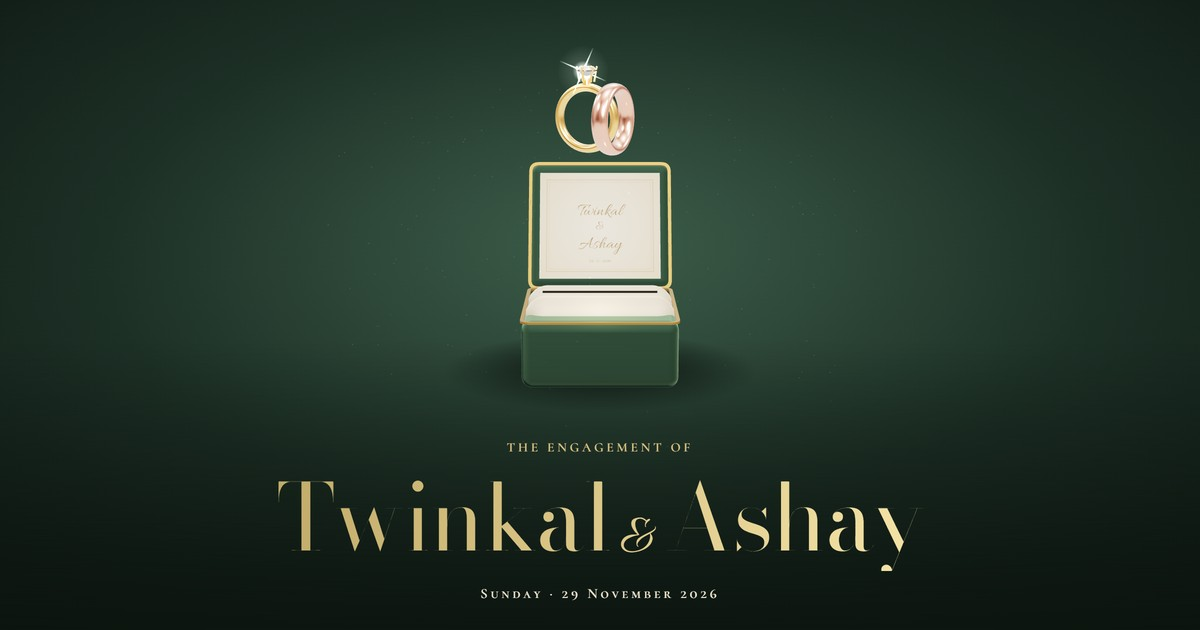
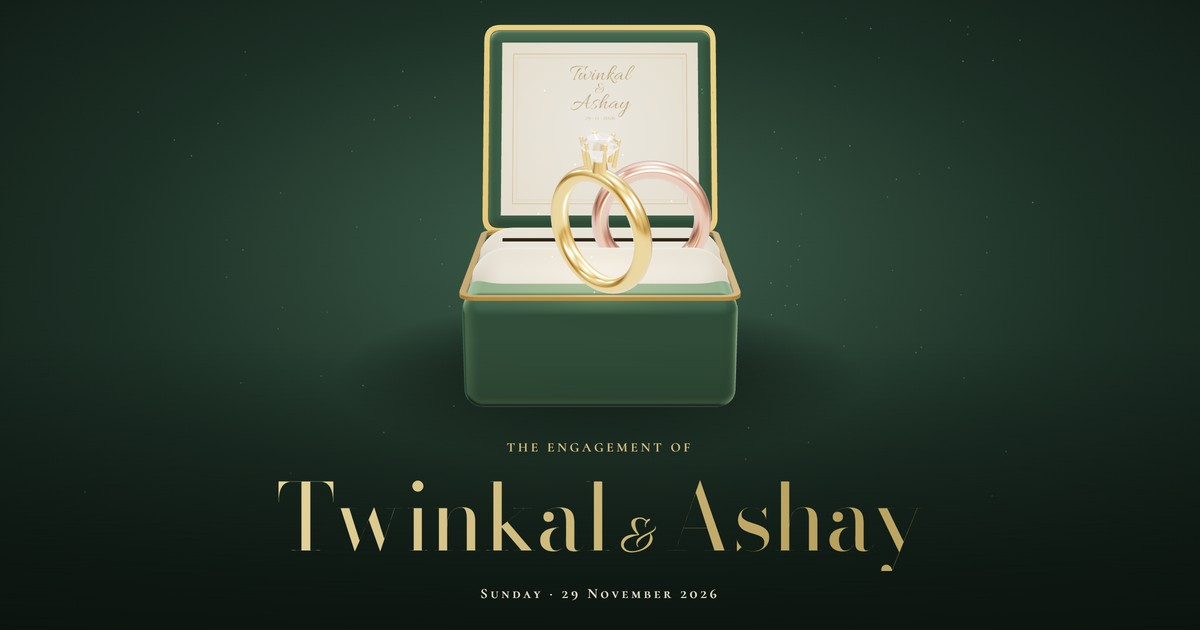
Smoother opening: zoom in, lid opens, ring lifts out and turns; names on the lid

diff --git a/index.html b/index.html
@@ -75,7 +75,7 @@
   .pre, .post { transition: opacity .9s ease, transform .9s ease; }
   .post { position: absolute; left: 0; right: 0; bottom: 0; opacity: 0; transform: translateY(16px); pointer-events: none; }
   .opened .pre { opacity: 0; transform: translateY(-10px); pointer-events: none; }
-  .opened .post { opacity: 1; transform: none; pointer-events: auto; }
+  .opened .post { opacity: 1; transform: none; pointer-events: auto; transition-delay: 2.9s; transition-duration: 1.2s; }
   .kicker { font-family: var(--caps); font-weight: 600; letter-spacing: 3px; font-size: 13px; color: var(--gold-bright); margin: 0 0 14px; text-transform: uppercase; }
   :lang(gu) .kicker { letter-spacing: .5px; font-size: 15px; }
   .guest-name { font-family: "Allura", "Noto Serif Gujarati", cursive; font-size: clamp(40px, 11vw, 64px); line-height: 1.1; margin: 0 0 6px; color: var(--gold-bright); text-shadow: 0 2px 18px rgba(0, 0, 0, .45); overflow-wrap: anywhere; }
@@ -248,7 +248,7 @@
     .invite-card { padding: 96px 60px 84px; }
   }
   .still .topbar, .still .hint, .still .scroll-cue, .still .quickbar { display: none; }
-  .still .pre, .still .post { transition: none; }
+  .still .pre, .still .post { transition: none !important; }
   @media (prefers-reduced-motion: reduce) {
     *, *::before, *::after { animation: none !important; transition: none !important; }
     .rv { opacity: 1; transform: none; }
@@ -689,7 +689,7 @@ let opened = false;
 function openBox() {
   if (opened) return; opened = true;
   document.getElementById("scene").classList.add("opened");
-  setTimeout(() => { document.body.classList.remove("locked"); scrollTo(0, 0); }, 1800);
+  setTimeout(() => { document.body.classList.remove("locked"); scrollTo(0, 0); }, 3600);
   setMusic(true);
   document.dispatchEvent(new Event("openbox"));
 }
@@ -718,7 +718,7 @@ setTimeout(showFallback, 7000);
   let rsvpInView = false;
   const update = () => bar.classList.toggle("show", opened && !rsvpInView);
   new IntersectionObserver(([e]) => { rsvpInView = e.isIntersecting; update(); }, { threshold: .25 }).observe(rsvpEl);
-  document.addEventListener("openbox", () => setTimeout(update, 2600));
+  document.addEventListener("openbox", () => setTimeout(update, 4400));
   const go = el => el.scrollIntoView({ behavior: "smooth", block: "start" });
   document.getElementById("qbRsvp").addEventListener("click", () => {
     go(rsvpEl);
@@ -893,25 +893,31 @@ const lidSeam = goldFrame(); lidSeam.position.set(0, .005, D / 2); hinge.add(lid
 // the lid's frame faces the glow once open, so it gets a softer, satin-finish gold
 lidSeam.material = new THREE.MeshPhysicalMaterial({ color: 0xa8843f, metalness: 1, roughness: .58, envMapIntensity: .55 });
 
-// gold-foil monogram pressed into the lid
-const monoCanvas = document.createElement("canvas"); monoCanvas.width = monoCanvas.height = 512;
-const monoTex = new THREE.CanvasTexture(monoCanvas); monoTex.anisotropy = 4;
-const mono = new THREE.Mesh(new THREE.PlaneGeometry(1.1, 1.1), new THREE.MeshPhysicalMaterial({
+// both names stamped in gold foil on top of the lid
+const monoCanvas = document.createElement("canvas"); monoCanvas.width = 1024; monoCanvas.height = 880;
+const monoTex = new THREE.CanvasTexture(monoCanvas); monoTex.anisotropy = 8;
+const mono = new THREE.Mesh(new THREE.PlaneGeometry(1.7, 1.46), new THREE.MeshPhysicalMaterial({
   map: monoTex, color: 0xf6d488, metalness: .85, roughness: .22, transparent: true, alphaTest: .05, envMapIntensity: 1.8,
-  emissive: 0x6b4f17, emissiveMap: monoTex, emissiveIntensity: .55,
+  emissive: 0x6b4f17, emissiveMap: monoTex, emissiveIntensity: .6,
 }));
 mono.rotation.x = -Math.PI / 2;
 mono.position.set(0, LID_H + .025, D / 2);
 hinge.add(mono);
-function drawMono() {
-  const g = monoCanvas.getContext("2d"); g.clearRect(0, 0, 512, 512);
+function drawMono(lang) {
+  const g = monoCanvas.getContext("2d"), w = 1024, h = 880, gu = lang === "gu";
+  g.clearRect(0, 0, w, h);
   g.strokeStyle = g.fillStyle = "#fff";
-  g.lineWidth = 5; g.beginPath(); g.arc(256, 256, 236, 0, Math.PI * 2); g.stroke();
-  g.lineWidth = 2; g.beginPath(); g.arc(256, 256, 218, 0, Math.PI * 2); g.stroke();
-  g.textAlign = "center"; g.textBaseline = "middle";
-  g.font = '400 210px "Bodoni Moda"'; g.fillText("T", 190, 250);
-  g.font = '170px "Allura"'; g.fillText("&", 262, 300);
-  g.font = '400 210px "Bodoni Moda"'; g.fillText("A", 330, 262);
+  g.lineWidth = 5; g.strokeRect(40, 40, w - 80, h - 80);
+  g.lineWidth = 2; g.strokeRect(62, 62, w - 124, h - 124);
+  g.textAlign = "center"; g.textBaseline = "alphabetic";
+  g.font = gu ? '600 150px "Noto Serif Gujarati"' : '230px "Allura"';
+  g.fillText(gu ? "ટ્વિંકલ" : "Twinkal", w / 2, gu ? 330 : 340);
+  g.font = gu ? '400 90px "Noto Serif Gujarati"' : '140px "Allura"';
+  g.fillText("&", w / 2, gu ? 470 : 480);
+  g.font = gu ? '600 150px "Noto Serif Gujarati"' : '230px "Allura"';
+  g.fillText(gu ? "આશય" : "Ashay", w / 2, gu ? 650 : 660);
+  g.font = gu ? '400 46px "Noto Serif Gujarati"' : '600 46px "Cormorant SC"';
+  g.fillText(gu ? "૨૯ · ૧૧ · ૨૦૨૬" : "29 · 11 · 2026", w / 2, 770);
   monoTex.needsUpdate = true;
 }
 
@@ -927,15 +933,16 @@ function drawLiner(lang) {
   g.lineWidth = 1.5; g.strokeRect(80, 80, w - 160, h - 160);
   g.textAlign = "center"; g.fillStyle = "#7a5c22";
   g.shadowColor = "rgba(255,240,200,.6)"; g.shadowOffsetY = 2; g.shadowBlur = 2;
+  // names sit in the upper half: the lifted ring floats in front of the lower half
   const gu = lang === "gu";
-  g.font = gu ? '600 120px "Noto Serif Gujarati"' : '150px "Allura"';
-  g.fillText(gu ? "ટ્વિંકલ" : "Twinkal", w / 2, gu ? 360 : 360);
-  g.font = gu ? '400 70px "Noto Serif Gujarati"' : '110px "Allura"';
-  g.fillText("&", w / 2, gu ? 480 : 480);
-  g.font = gu ? '600 120px "Noto Serif Gujarati"' : '150px "Allura"';
-  g.fillText(gu ? "આશય" : "Ashay", w / 2, gu ? 640 : 640);
-  g.font = gu ? '400 40px "Noto Serif Gujarati"' : '600 38px "Cormorant SC"';
-  g.fillText(gu ? "૨૯ · ૧૧ · ૨૦૨૬" : "29 · 11 · 2026", w / 2, 760);
+  g.font = gu ? '600 96px "Noto Serif Gujarati"' : '124px "Allura"';
+  g.fillText(gu ? "ટ્વિંકલ" : "Twinkal", w / 2, 195);
+  g.font = gu ? '400 56px "Noto Serif Gujarati"' : '84px "Allura"';
+  g.fillText("&", w / 2, 262);
+  g.font = gu ? '600 96px "Noto Serif Gujarati"' : '124px "Allura"';
+  g.fillText(gu ? "આશય" : "Ashay", w / 2, 345);
+  g.font = gu ? '400 34px "Noto Serif Gujarati"' : '600 32px "Cormorant SC"';
+  g.fillText(gu ? "૨૯ · ૧૧ · ૨૦૨૬" : "29 · 11 · 2026", w / 2, 405);
   linerTex.needsUpdate = true;
 }
 const liner = new THREE.Mesh(new THREE.PlaneGeometry(W - .3, D - .3), new THREE.MeshPhysicalMaterial({ map: linerTex, roughness: .6, sheen: .5, sheenColor: new THREE.Color(0xfff1d8), envMapIntensity: .35 }));
@@ -946,8 +953,8 @@ const fontsReady = Promise.all([
   document.fonts.load('150px "Allura"'), document.fonts.load('600 38px "Cormorant SC"'), document.fonts.load('600 120px "Noto Serif Gujarati"'),
   document.fonts.load('400 210px "Bodoni Moda"'),
 ]).catch(() => {});
-fontsReady.then(() => { drawLiner(document.documentElement.lang); drawMono(); });
-document.addEventListener("langchange", e => fontsReady.then(() => drawLiner(e.detail)));
+fontsReady.then(() => { drawLiner(document.documentElement.lang); drawMono(document.documentElement.lang); });
+document.addEventListener("langchange", e => fontsReady.then(() => { drawLiner(e.detail); drawMono(e.detail); }));
 
 /* ---------- the rings ---------- */
 const R = .42;
@@ -1027,18 +1034,15 @@ shadow.rotation.x = -Math.PI / 2; shadow.position.y = .002; box.add(shadow);
 /* ---------- poses ---------- */
 const CUSHION_TOP = BASE_H + .2;
 const SLOT_Y = CUSHION_TOP + R - .26;
-const SHOW_Y = BASE_H + D + .72;   // floats above the open lid, so the names on the lining stay visible
 function lerp(a, b, k) { return a + (b - a) * k; }
-const ease = k => k < .5 ? 4 * k * k * k : 1 - Math.pow(-2 * k + 2, 3) / 2;
-const easeOutBack = k => { const c1 = 1.4, c3 = c1 + 1; return 1 + c3 * Math.pow(k - 1, 3) + c1 * Math.pow(k - 1, 2); };
+const clamp01 = k => Math.min(1, Math.max(0, k));
+const smooth = k => { k = clamp01(k); return k * k * k * (k * (k * 6 - 15) + 10); };   // smootherstep: no jerk at either end
+const phase = (t, start, len) => smooth((t - start) / len);
 
-function setRings(k) {          // 0 = tucked in the cushion, 1 = floating and interlocked
-  pair.position.y = lerp(SLOT_Y, SHOW_Y, k);
-  ringHer.position.x = lerp(-.42, -.2, k);
-  ringHis.position.x = lerp(.42, .2, k);
-  ringHis.rotation.y = lerp(0, Math.PI / 2, k);
-}
-setRings(0);
+// her ring lifts out of the cushion towards the guest; his band stays tucked in
+const HER_SLOT = new THREE.Vector3(-.42, SLOT_Y, 0), HER_SHOW = new THREE.Vector3(0, SLOT_Y + .22, 1.15);
+ringHer.position.copy(HER_SLOT);
+ringHis.position.set(.42, SLOT_Y, 0);
 
 /* ---------- camera framing ----------
    The subject is framed by height and then shifted up with a view offset,
@@ -1052,12 +1056,12 @@ function resize() {
   const w = sceneEl.clientWidth, h = sceneEl.clientHeight;
   renderer.setSize(w, h, false);
   camera.aspect = w / h;
-  // the open scene spans ~4.4 units (box + rings above the lid); fit it into the top ~58% of the screen
-  // on tall phones the width is the limit: the swaying box needs ~3.6 units across, the open scene ~3.4
+  // closed: the swaying box needs ~3.6 units across. Open: box + raised lid + lifted ring span ~2.8 units
+  // high and ~2.6 across, so the camera ends up a little closer: a gentle zoom-in as it opens.
   const halfTan = Math.tan(THREE.MathUtils.degToRad(camera.fov / 2));
   const byWidth = need => need / (2 * halfTan * camera.aspect);
-  camClosed = orbit(new THREE.Vector3(0, .75, 0), 26, Math.max(10.2, byWidth(3.6)));
-  camOpen = orbit(new THREE.Vector3(0, 2.3, 0), 10, Math.max(16.2, byWidth(3.4)));
+  camClosed = orbit(new THREE.Vector3(0, .75, 0), 26, Math.max(10.6, byWidth(3.6)));
+  camOpen = orbit(new THREE.Vector3(0, 1.38, 0), 14, Math.max(9.6, byWidth(3.05)));
   camera.setViewOffset(w, h, 0, h * .17, w, h);
   camera.updateProjectionMatrix();
 }
@@ -1071,7 +1075,7 @@ if (root.classList.contains("still")) openT = 10;
 canvas.addEventListener("pointerdown", e => { dragging = true; lastX = e.clientX; });
 addEventListener("pointerup", () => { dragging = false; });
 canvas.addEventListener("pointermove", e => {
-  if (!dragging || openT < 2.6) return;
+  if (!dragging || openT < 3.4) return;
   const dx = e.clientX - lastX; lastX = e.clientX;
   dragVel = dx * .008; spin += dragVel;
 });
@@ -1099,23 +1103,30 @@ function loop() {
   frames++;
 
   if (openT >= 0) openT += dt;
-  const lidK = openT < 0 ? 0 : Math.min(1, openT / 1.7);
-  const ringK = openT < 0 ? 0 : ease(Math.min(1, Math.max(0, (openT - 1.1) / 1.9)));
-  const camK = openT < 0 ? 0 : ease(Math.min(1, openT / 3));
+  const T = openT;
+  // one continuous timeline, every stage eased with smootherstep so nothing starts or stops abruptly
+  const turnK = T < 0 ? 0 : phase(T, 0, 1.4);          // box turns to face the guest
+  const camK = T < 0 ? 0 : phase(T, 0, 4.4);           // slow zoom-in across the whole opening
+  const lidK = T < 0 ? 0 : phase(T, .5, 2.1);          // lid opens
+  const liftK = T < 0 ? 0 : phase(T, 2.2, 2.0);        // ring rises out of the cushion
+  const settle = T < 0 ? 0 : phase(T, 3.6, 1.6);       // gentle sway fades in once it has risen
 
-  // closed: the box sways gently and the lid "breathes"
-  const idle = openT < 0 ? 1 : Math.max(0, 1 - openT / 1.2);
+  // closed: the box sways slowly and the lid "breathes"
+  const idle = 1 - turnK;
   box.rotation.y = lerp(0, -.42 + Math.sin(time * .5) * .12, idle);
   box.position.y = Math.sin(time * 1.1) * .03 * idle;
-  hinge.rotation.x = openT < 0 ? -Math.max(0, Math.sin(time * 1.6)) * .03 : -easeOutBack(lidK) * 1.92;
-  glow.intensity = lerp(0, 1.8, Math.min(1, lidK * 1.4)) * (1 - ringK * .4);
+  const breathe = T < 0 ? Math.max(0, Math.sin(time * 1.6)) * .03 : 0;
+  hinge.rotation.x = -(breathe + lidK * 1.92);
+  glow.intensity = 1.6 * lidK * (1 - .35 * liftK);
 
-  setRings(ringK);
+  // her ring: out of the slot, up and towards the guest, turning a little as it comes
+  ringHer.position.lerpVectors(HER_SLOT, HER_SHOW, liftK);
+  ringHer.position.y += Math.sin(time * 1.2) * .025 * settle;
+  if (!dragging) { dragVel *= .94; spin += dragVel; }
+  ringHer.rotation.y = lerp(0, -.5, liftK) + Math.sin((T - 3.6) * .8) * .32 * settle + (spin + .55) * settle;
+  ringHer.rotation.x = .16 * liftK;                    // tip the diamond slightly towards the guest
   pair.visible = hinge.rotation.x < -.35;   // inside the lid's hollow until it opens
-  if (!dragging) { dragVel *= .95; spin += dragVel; }
-  spin += dt * .35 * ringK;
-  pair.rotation.y = ringK > 0 ? spin * ringK : 0;
-  pair.position.y += Math.sin(time * 1.3) * .04 * ringK;
+  const ringK = liftK;
 
   // camera
   tmpV.lerpVectors(camClosed.pos, camOpen.pos, camK);
